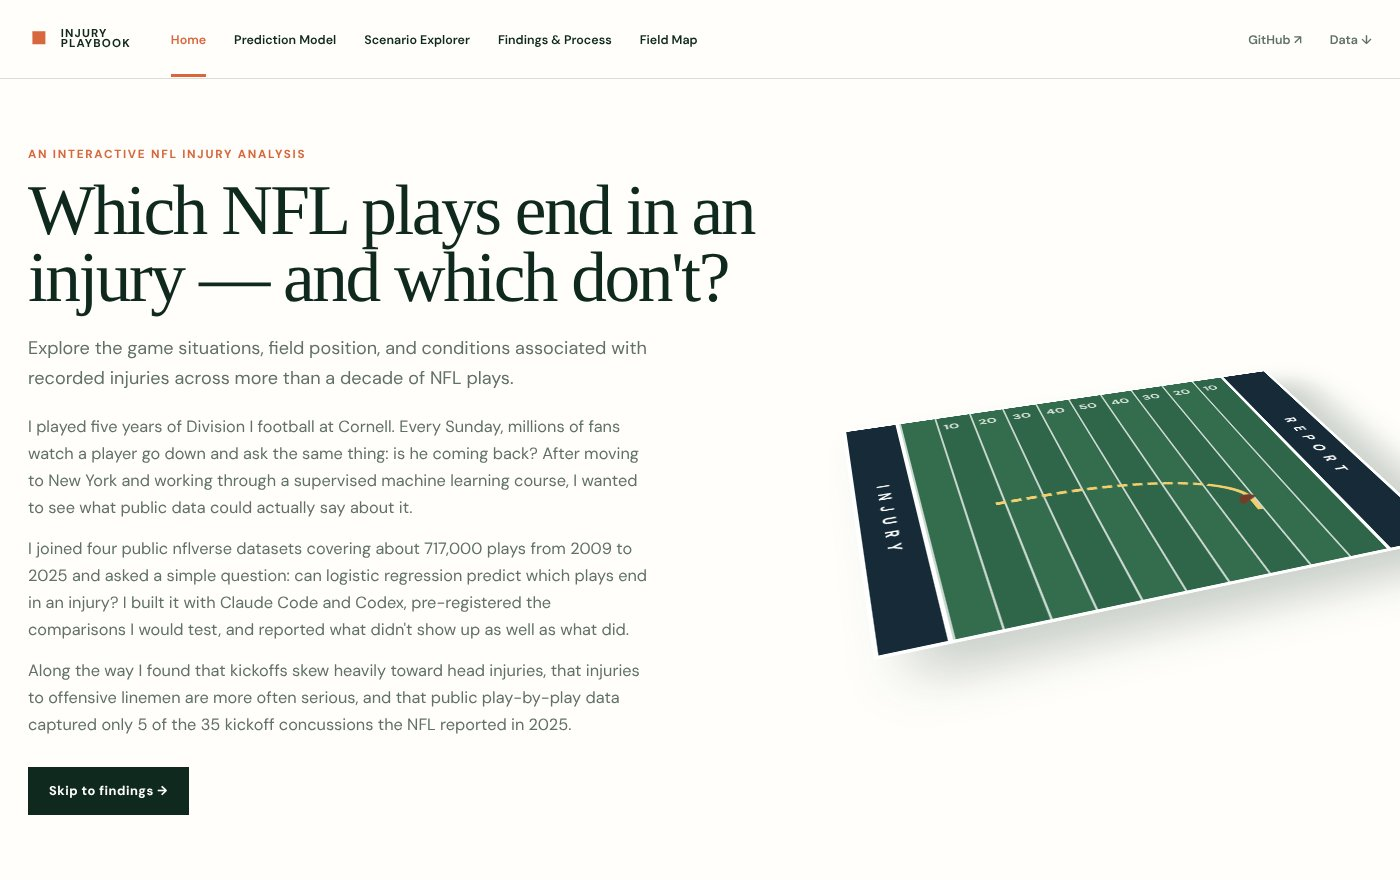
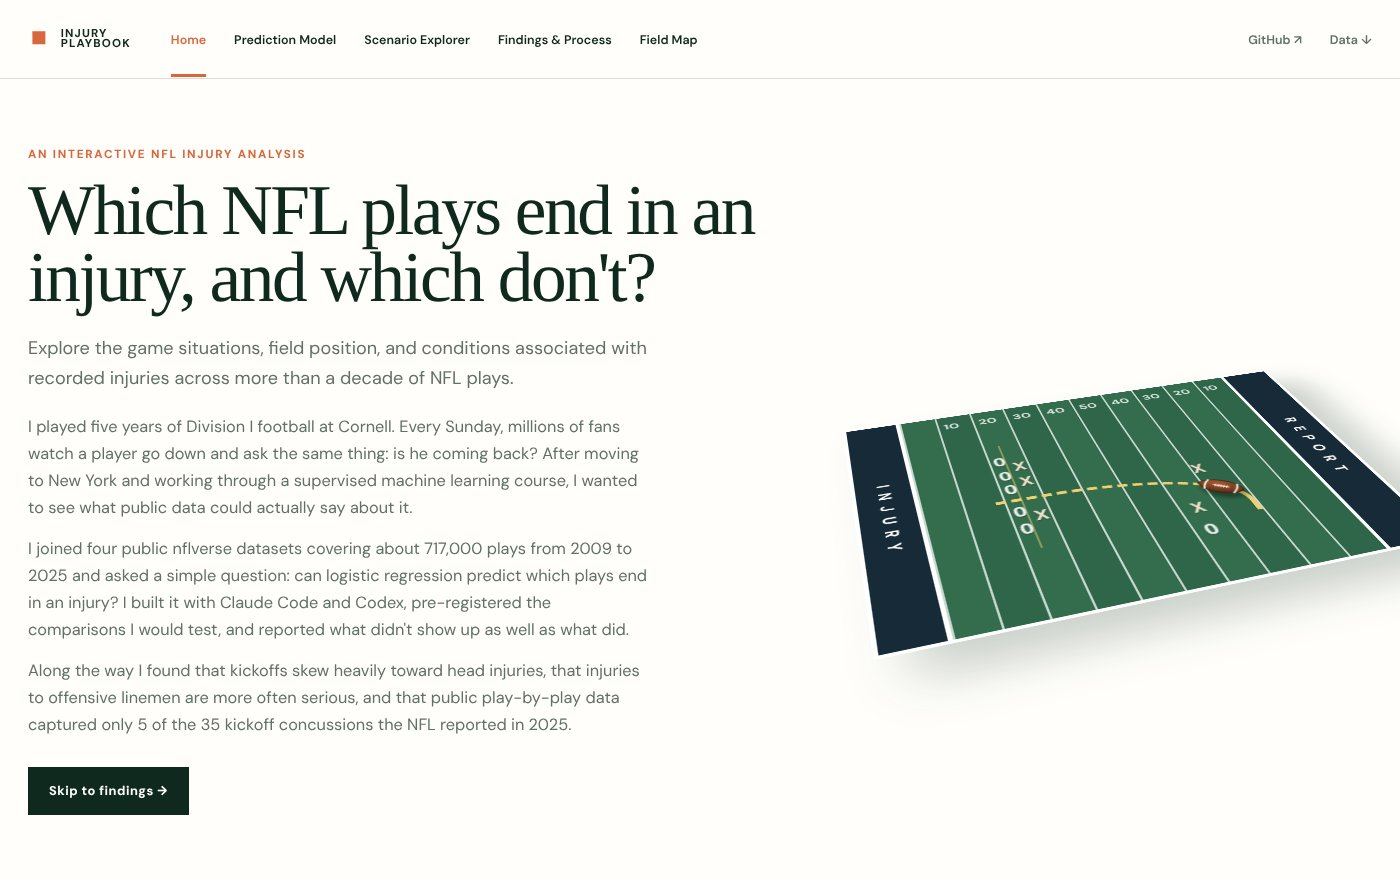
Front page: result line on every project, fresh NFL thumbnail
Claude-Session: https://claude.ai/code/session_01XhjHobFuHByZKkqDKUDe5z

Changed region(s): [[0.1229, 0.2761, 0.5221, 0.3682], [0.86, 0.5216, 0.8907, 0.6136], [0.7064, 0.5216, 0.7371, 0.6136]]

diff --git a/index.html b/index.html
@@ -38,6 +38,7 @@
         <div class="tag">Live tool · Public data</div>
         <h3><a href="kc-sba-loan-map/">KC Roll-Up Target Finder</a></h3>
         <p>Drop a platform company on a map of Kansas City and get every independent business nearby as an add-on target list. A monthly job pulls new listings, so you can filter to businesses that just appeared.</p>
+        <p class="result"><b>Result</b> The same monthly refresh I built for a client, rebuilt on public data so anyone can try it.</p>
         <div class="links"><a href="kc-sba-loan-map/">Open the tool</a><a href="kc/">The story</a><a href="https://github.com/WilsonSelzer/kc-sba-loan-map">Code</a></div>
       </article>
 
@@ -46,6 +47,7 @@
         <div class="tag">Interactive analysis · Machine learning</div>
         <h3><a href="nfl-injuries/">Which NFL plays end in an injury?</a></h3>
         <p>A model trained on about 717,000 plays from 2009 to 2025. Build any play and see how risky it is, or read what held up and what didn't.</p>
+        <p class="result"><b>Where AI falls short</b> The model can rank risky situations but can't predict who gets hurt, and public data missed 30 of the 35 kickoff concussions the NFL reported in 2025.</p>
         <div class="links"><a href="nfl-injuries/">Open the analysis</a></div>
       </article>
 
@@ -53,6 +55,7 @@
         <div class="tag">Client work · Private</div>
         <h3>Operator data platform for a PE deal team</h3>
         <p>Pulled 15,000+ senior living operators and 7,000 hospices from public registries into one CRM, with a monthly feed of hospice openings, closures and ownership changes.</p>
+        <p class="result"><b>Result</b> They used to hire a consultant once a year to build this market picture. Now it updates itself every month.</p>
         <div class="links"><a href="kc/">See the public rebuild</a></div>
       </article>
 
@@ -60,6 +63,7 @@
         <div class="tag">Client work · Private</div>
         <h3>One portal for the chairman's AI tools</h3>
         <p>The chairman had built four tools on his own that only he could run. I combined them into one app his whole team uses.</p>
+        <p class="result"><b>Result</b> Tools that only worked for the person who built them now work for the whole team.</p>
         <div class="links"><span>Private</span></div>
       </article>
 
@@ -67,6 +71,7 @@
         <div class="tag">Personal build · Running daily</div>
         <h3>Autonomous networking agent</h3>
         <p>Finds people, writes personal outreach and checks it never emails anyone twice. It booked 60 calls in its first month.</p>
+        <p class="result"><b>Result</b> 60 calls in month one, from outreach I could never keep up with by hand.</p>
         <div class="links"><span>Private</span></div>
       </article>
 
@@ -74,6 +79,7 @@
         <div class="tag">Personal build · Scraping</div>
         <h3>Where former college football players work</h3>
         <p>Scraped ten years of rosters from 24 programs (9,069 players) and found the 443 alumni working in New York finance, consulting and tech.</p>
+        <p class="result"><b>Result</b> About 7,000 alumni checked automatically instead of one search at a time.</p>
         <div class="links"><span>Private, names not shared</span></div>
       </article>
     </div>

diff --git a/style.css b/style.css
@@ -97,3 +97,5 @@ footer { border-top: 1px solid var(--rule); margin-top: 40px; padding: 28px 40px
 .card .links a { color: var(--ink); text-underline-offset: 3px; }
 .card .links span { color: var(--muted); }
 @media (max-width: 760px) { .grid { grid-template-columns: 1fr; } .about { padding-top: 40px; } }
+.card .result { font-size: 16px; color: var(--ink); border-left: 2px solid var(--ink); padding: 2px 0 2px 12px; margin: 0 0 14px; }
+.card .result b { display: block; font-family: var(--mono); font-size: 10.5px; letter-spacing: .08em; text-transform: uppercase; font-weight: 500; color: var(--muted); margin-bottom: 2px; }
